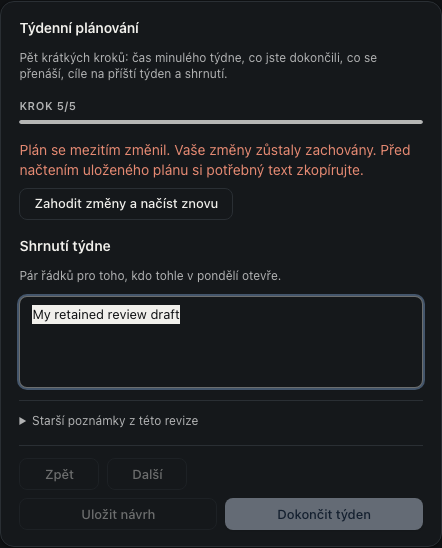
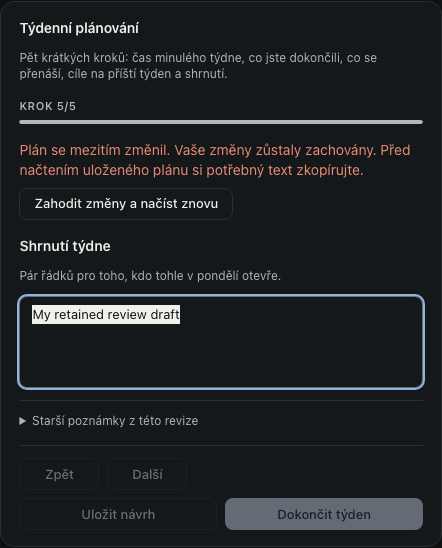
Refresh visual plan with native focus and corrected dark controls

Changed region(s): [[0.0294, 0.5274, 0.9706, 0.7135]]

diff --git a/docs/reports/app-wide-audit-2026-10-23/visual-plan.html b/docs/reports/app-wide-audit-2026-10-23/visual-plan.html
@@ -4,16 +4,22 @@
 :root{color-scheme:light dark;--canvas:#f4f5f7;--surface:#fff;--ink:#1e2329;--muted:#59616c;--line:#d9dee5;--accent:#245db2;--tint:#eaf1fc;--mark:#e5a122;font-family:system-ui,-apple-system,BlinkMacSystemFont,"Segoe UI",sans-serif;line-height:1.55}
 *{box-sizing:border-box}body{margin:0;background:var(--canvas);color:var(--ink)}main{max-width:1240px;margin:auto;padding:40px 24px 64px}h1{font-size:clamp(28px,4vw,42px);letter-spacing:-.035em;line-height:1.15;margin:10px 0 16px}h2{font-size:23px;letter-spacing:-.025em;margin:0}h3{font-size:17px;margin:0 0 8px}p{margin:0 0 14px}.eyebrow{font-size:12px;font-weight:650;letter-spacing:.08em;text-transform:uppercase;color:var(--muted)}.intro{max-width:780px;font-size:17px}.notice{padding:16px 18px;background:var(--tint);border:1px solid var(--line);border-radius:10px;margin:24px 0}.meta,.source{font-size:13px;color:var(--muted)}a{color:var(--accent);text-underline-offset:3px}a:focus-visible,button:focus-visible,input:focus-visible,select:focus-visible,.screen-scroll:focus-visible,.table-scroll:focus-visible{outline:3px solid var(--accent);outline-offset:3px}.toolbar{display:flex;flex-wrap:wrap;align-items:center;gap:12px;border-block:1px solid var(--line);padding:14px 0;margin:26px 0}.segmented{display:inline-flex;gap:4px}button,select{font:inherit;min-height:44px;border:1px solid var(--line);border-radius:7px;background:var(--surface);color:var(--ink);padding:8px 14px}button{cursor:pointer}button[aria-pressed=true]{background:var(--tint);border-color:var(--accent)}label{display:inline-flex;align-items:center;gap:8px;min-height:44px}input[type=checkbox]{width:18px;height:18px;accent-color:var(--accent)}nav{display:flex;flex-wrap:wrap;gap:8px 18px;margin:0 0 28px}nav a{min-height:44px;display:inline-flex;align-items:center}.component{padding:22px;background:var(--surface);border:1px solid var(--line);border-radius:12px;margin-bottom:28px;scroll-margin-top:20px}.component-heading{display:flex;align-items:center;justify-content:space-between;flex-wrap:wrap;gap:12px;margin-bottom:6px}.status{font-size:12px;padding:5px 9px;border-radius:6px;background:var(--tint);color:var(--accent)}.screen-scroll{max-width:var(--capture-width);max-height:660px;overflow:auto;border:1px solid var(--line);border-radius:8px;background:#101214;margin:18px auto}.screen{position:relative;margin:0;width:100%}.screen img{display:block;width:100%;height:auto}.marks{position:absolute;inset:0;pointer-events:none}.mark{position:absolute;border:2px solid var(--mark);border-radius:5px}.mark b{position:absolute;top:0;left:0;background:var(--mark);color:#20170a;padding:2px 7px;font-size:12px}.mobile .screen-scroll{max-width:min(390px,var(--capture-width))}.mobile .screen{max-width:390px;margin:auto}.mobile .marks,.hide-marks .marks{display:none}ol{padding-left:22px;max-width:88ch}li+li{margin-top:7px}.table-scroll{overflow:auto;border:1px solid var(--line);border-radius:8px;margin-top:18px}table{width:100%;border-collapse:collapse;min-width:700px;text-align:left;font-size:14px}th,td{padding:12px;vertical-align:top;border-bottom:1px solid var(--line)}thead th{background:var(--tint)}tbody th{width:20%}section+section{margin-top:32px}.next-grid{display:grid;grid-template-columns:repeat(auto-fit,minmax(240px,1fr));gap:16px}.next-grid article{background:var(--surface);padding:18px;border:1px solid var(--line);border-radius:9px}.next-grid p{margin:0;font-size:14px}.note{font-size:13px;color:var(--muted)}footer{border-top:1px solid var(--line);margin-top:36px;padding-top:18px;color:var(--muted);font-size:13px}@media(prefers-color-scheme:dark){:root{--canvas:#101214;--surface:#191c20;--ink:#edf0f4;--muted:#adb5c0;--line:#343b45;--accent:#98bbf6;--tint:#233249}}@media(max-width:600px){main{padding:24px 14px 44px}.component{padding:14px}.status{font-size:11px}.toolbar{gap:8px}.source{overflow-wrap:anywhere}}@media print{.toolbar,nav{display:none}.screen-scroll{max-height:none;overflow:visible}.component{break-inside:avoid}body{background:white;color:black}}
 </style></head><body><main>
-<header><p class="eyebrow">OwnDashboard · code and UX audit</p><h1>Components and remaining review</h1><p class="intro">This working plan highlights real components already changed and keeps the remaining review visible. All images are authentic preview captures using documented fixture data.</p><p class="meta">Source snapshot <strong>924d7b8</strong> · 644 inventory entries · 228 awaiting review · 69 in partial review.</p></header>
+<header><p class="eyebrow">OwnDashboard · code and UX audit</p><h1>Components and remaining review</h1><p class="intro">This working plan highlights real components already changed and keeps the remaining review visible. All images are authentic preview captures using documented fixture data.</p><p class="meta">Source snapshot <strong>4f64b1b</strong> · 644 inventory entries · 219 awaiting review · 75 in partial review.</p></header>
 <div class="notice" role="note"><strong>The app-wide audit is still in progress.</strong> Source review, rendered checks and production release are separate steps. Main merge, prepared migrations and final release checks remain pending. <a href="review.md">Read the evidence and limitations</a>.</div>
 <div class="toolbar"><div class="segmented" role="group" aria-label="Screenshot viewport"><button type="button" data-view="desktop" aria-pressed="true">Desktop</button><button type="button" data-view="mobile" aria-pressed="false">Mobile</button></div><label><input id="highlights" type="checkbox" checked>Highlight changed areas</label><span class="note">Mobile captures use their original scrollable height.</span></div>
-<nav aria-label="Review areas"><a href="#task-density">Tasks: reduce nested cards and scattered metadata</a><a href="#weekly-review">Weekly planning: retained drafts and compact actions</a><a href="#invoice-save">Invoice save recovery and reachable actions</a><a href="#audio-preview">Music preview failure and link recovery</a><a href="#install">Installation prompt and shared action sizes</a><a href="#source-edit">Source settings and retained drafts</a><a href="#daily-mix">Daily publishing limits and draft recovery</a><a href="#login">Sign-in and recovery</a><a href="#repository">Repository notes</a><a href="#operations">Project operations and note recovery</a><a href="#project-details">Project edit recovery</a><a href="#history">Repository activity</a><a href="#feedback">Notifications and mobile navigation</a><a href="#guest-notice">Guest tour notice and privacy</a><a href="#finance">Money overview</a><a href="#monitoring">Cron history</a><a href="#remaining">Remaining work</a><a href="#coverage">Page coverage</a></nav>
+<nav aria-label="Review areas"><a href="#task-density">Tasks: reduce nested cards and scattered metadata</a><a href="#native-focus">Keyboard focus and native dark controls</a><a href="#weekly-review">Weekly planning: retained drafts and compact actions</a><a href="#invoice-save">Invoice save recovery and reachable actions</a><a href="#audio-preview">Music preview failure and link recovery</a><a href="#install">Installation prompt and shared action sizes</a><a href="#source-edit">Source settings and retained drafts</a><a href="#daily-mix">Daily publishing limits and draft recovery</a><a href="#login">Sign-in and recovery</a><a href="#repository">Repository notes</a><a href="#operations">Project operations and note recovery</a><a href="#project-details">Project edit recovery</a><a href="#history">Repository activity</a><a href="#feedback">Notifications and mobile navigation</a><a href="#guest-notice">Guest tour notice and privacy</a><a href="#finance">Money overview</a><a href="#monitoring">Cron history</a><a href="#remaining">Remaining work</a><a href="#coverage">Page coverage</a></nav>
 <article id="task-density" class="component">
 <div class="component-heading"><h2>Tasks: reduce nested cards and scattered metadata</h2><span class="status">Touch targets fixed · density review pending</span></div>
 <p class="source">src/components/panels/todos-panel.tsx · Czech · actual Task page after target sizing</p>
 <div class="screen-scroll" style="--capture-width:1400px" role="region" aria-label="Tasks: reduce nested cards and scattered metadata screenshot" tabindex="0"><figure class="screen" data-desktop="assets/task-density-cs-1440.png" data-mobile="assets/task-density-cs-360.png"><img src="assets/task-density-cs-1440.png" alt="Actual dev-preview capture of Tasks: reduce nested cards and scattered metadata" loading="lazy" width="1440">
 <div class="marks" aria-hidden="true"><span class="mark" style="left:19.2%;top:25.5%;width:37.6%;height:9.5%"><b>1</b></span><span class="mark" style="left:59.8%;top:25.4%;width:37.4%;height:40.1%"><b>2</b></span></div></figure></div>
 <ol><li>Checkbox targets now match the shared mobile and desktop sizes; the visible mark remains compact.</li><li>Next: replace the card around every task with grouped rows and shared dividers. Preserve project grouping, names, due dates and assignees.</li><li>Bring related metadata onto one compact desktop line where it fits, and wrap only when needed on mobile. Manual/repository mutations and completed-task behavior still need their full source review.</li></ol></article>
+<article id="native-focus" class="component">
+<div class="component-heading"><h2>Keyboard focus and native dark controls</h2><span class="status">Implemented · final release pending</span></div>
+<p class="source">src/app/globals.css · Czech · actual dark Calendar form with keyboard focus</p>
+<div class="screen-scroll" style="--capture-width:512px" role="region" aria-label="Keyboard focus and native dark controls screenshot" tabindex="0"><figure class="screen" data-desktop="assets/native-focus-dark-cs-1440.png" data-mobile="assets/native-focus-dark-cs-360.png"><img src="assets/native-focus-dark-cs-1440.png" alt="Actual dev-preview capture of Keyboard focus and native dark controls" loading="lazy" width="1440">
+<div class="marks" aria-hidden="true"><span class="mark" style="left:3%;top:18%;width:94%;height:12%"><b>1</b></span><span class="mark" style="left:3%;top:35%;width:94%;height:10%"><b>2</b></span></div></figure></div>
+<ol><li>Opaque semantic focus colors remain visible on both themes. Eighty native button/field/checkbox samples exceed 5.51:1; forced colors retain a system outline when shadows disappear.</li><li>Native date/time picker glyphs now follow the selected app theme, including when the operating system prefers the opposite theme. Print retains a light scheme.</li><li>Calendar fields, form recovery and invoice print isolation pass their targeted checks. Whole-app, editor-font and final invoice review remain open.</li></ol></article>
 <article id="weekly-review" class="component">
 <div class="component-heading"><h2>Weekly planning: retained drafts and compact actions</h2><span class="status">Save recovery fixed · aggregate review pending</span></div>
 <p class="source">src/components/work/weekly-planning.tsx · Czech · actual saved-version conflict with selected draft</p>
@@ -115,7 +121,7 @@
 <tr><th scope="row">Account and public boundaries</th><td>Settings, Login, Guest, unknown routes, dev-preview guard, OAuth, PWA</td><td>Login/PWA/OAuth fixes checked; Settings preference/project writes, remaining session boundaries and final release pending</td></tr>
 <tr><th scope="row">Backend and operations</th><td>API routes, cron/provider budgets, database ownership and query plans</td><td>Reviewing</td></tr>
 <tr><th scope="row">Release</th><td>Current-doc reconciliation, full validation, additive migrations, PR, main merge, deployment</td><td>Pending</td></tr></tbody></table></div></section>
-<footer>Evidence: <a href="review.md">audit report</a> · <a href="source-inventory.json">source inventory</a> · <a href="dev-finance-cpu.json">local finance CPU samples</a> · <a href="needed-cleanup-cpu.json">local cleanup CPU samples</a> · <a href="currency-format-cpu.json">local currency-format CPU samples</a> · <a href="markdown-render-cpu.json">local document-renderer CPU samples</a> · <a href="weekly-channels-cpu.json">local weekly-classification CPU samples</a>. Performance samples measure local synthetic CPU work. Production release remains pending.</footer>
+<footer>Evidence: <a href="review.md">audit report</a> · <a href="source-inventory.json">source inventory</a> · <a href="dev-finance-cpu.json">local finance CPU samples</a> · <a href="needed-cleanup-cpu.json">local cleanup CPU samples</a> · <a href="currency-format-cpu.json">local currency-format CPU samples</a> · <a href="markdown-render-cpu.json">local document-renderer CPU samples</a> · <a href="weekly-channels-cpu.json">local weekly-classification CPU samples</a> · <a href="focus-contrast.json">native focus contrast samples</a>. Performance samples measure local synthetic CPU work. Production release remains pending.</footer>
 </main><script>
 const buttons=[...document.querySelectorAll('[data-view]')];
 for(const button of buttons)button.addEventListener('click',()=>{const mobile=button.dataset.view==='mobile';document.body.classList.toggle('mobile',mobile);for(const item of buttons)item.setAttribute('aria-pressed',String(item===button));for(const figure of document.querySelectorAll('.screen')){figure.querySelector('img').src=mobile?figure.dataset.mobile:figure.dataset.desktop;figure.closest('.screen-scroll').scrollTop=0;}});

diff --git a/docs/reports/app-wide-audit-2026-10-23/review.md b/docs/reports/app-wide-audit-2026-10-23/review.md
@@ -544,3 +544,8 @@ The HTML plan now contains sixteen authentic desktop/mobile component pairs at s
 At application source commit `ef83d38`, 4,604 unit/component/database cases pass with one intentional skip (439 passed files, one skipped file), in 174.44 seconds with two workers on Node 22.23.4. Full ESLint, the ordinary Next.js 16.4.3 production build, all eight real render traces and post-build TypeScript pass. A separate optimized fixture build passes all 26 selected browser cases in 40.3 seconds, including guarded weekly saves/conflicts, whole-card and equal-action bounds, native keyboard selection, focus-history recovery, install handling and Calendar/Date/Goal timezone behavior. Inputs stayed frozen through both builds and checks. Both builds use public fixture configuration; their local artifacts must not be deployed. This is a selected optimized recheck, not the final complete browser matrix.
 
 Read-only review covered the full stylesheet, deterministic Career helpers, export and fixture-render boundaries. The ledger now has 644 entries (219 pending, 75 partial). The July control-document layout summary was reconciled with the owner's 16 October design-system revision and actual tokens; no UI geometry changed. Focus contrast, editor font consistency and export completeness/cost are recorded follow-ups. Twenty-nine audit migrations remain prepared/unapplied (115 local files). Remaining source/interaction review, migrations, current-document reconciliation and main merge remain unfinished.
+
+
+## Visual evidence refresh after finding 172 — 25 October 2026
+
+The HTML plan now has seventeen authentic desktop/mobile pairs at source snapshot `4f64b1b`, including shared focus and corrected dark native picker glyphs. Weekly conflict captures also show the stronger focus indicator. Both modes, all images, mobile widths, controls, six-width reflow, axe and page errors pass; the builder passes lint and desktop/mobile artifact captures were inspected. The focus color dataset is linked separately from CPU measurements. Remaining source/interaction review, migration rollout and main merge remain unfinished.
